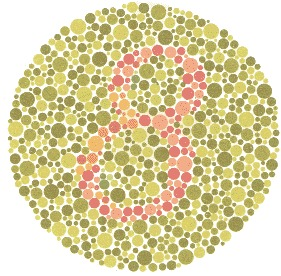
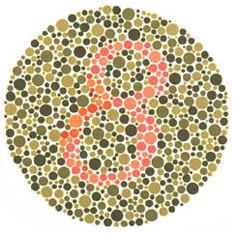
fix(color-vision): update all 25 Ishihara plate assets and bump image cache to v3

diff --git a/vite.config.ts b/vite.config.ts
@@ -156,7 +156,7 @@ export default defineConfig({
             urlPattern: /\.(?:png|jpg|jpeg|svg|gif|webp|avif)$/i,
             handler: "CacheFirst",
             options: {
-              cacheName: "images-v2",
+              cacheName: "images-v3",
               expiration: {
                 maxEntries: 100,
                 maxAgeSeconds: 60 * 60 * 24 * 30, // 30 days
